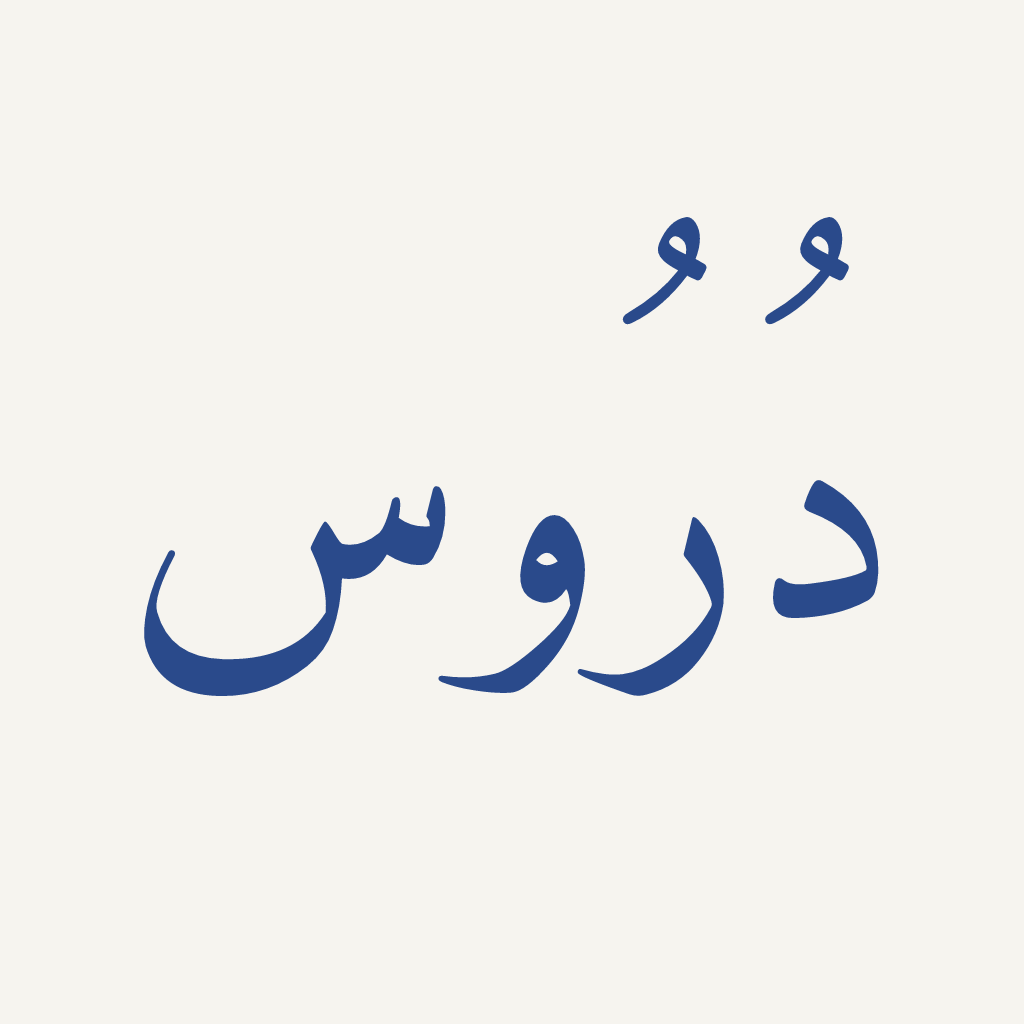
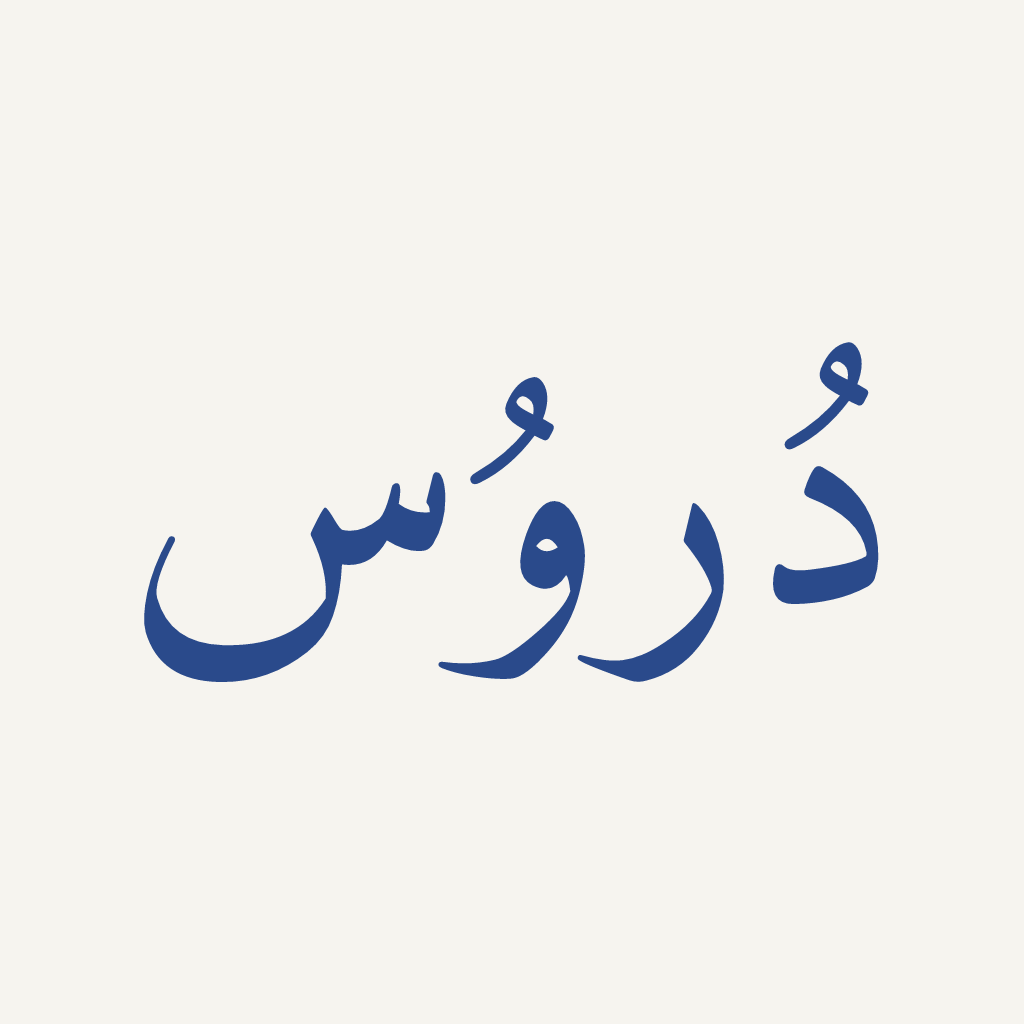
Place the harakat by hand in the generated marks
resvg does not apply Amiri's mark positioning, so the vowelled string
"دُرُوس" came out with both dammas floating above and right of the letters
they belong to, which also dragged the word off its optical centre. Every
icon this repo and the web repo have generated carried that.

The word is now set unvowelled and the two dammas are drawn as separate
glyphs at offsets measured off a render where each letter was given its
own colour. The whole composition is centred on its own ink rather than
on the word, so it no longer sits top heavy in the square.

The same construction, from the same numbers, is now in the web repo's
scripts/make-pwa-assets.ts: the two marks share a home screen and have to
agree.

diff --git a/scripts/make-brand-assets.ts b/scripts/make-brand-assets.ts
@@ -14,6 +14,12 @@
   produces a near-white square.
 
   Run with: npm run brand:build
+
+  The same mark is generated in the web repo by scripts/make-pwa-assets.ts, and
+  the two must agree: a user with both installed sees them side by side on one
+  home screen. They share the font file byte for byte and the same resvg
+  version, so identical parameters produce identical art. Change the geometry
+  here and change it there.
 */
 
 import { Resvg } from "@resvg/resvg-js";
@@ -31,30 +37,77 @@ const LAPIS_LIGHT = "#2A4A8B";
 const LAPIS_DARK = "#7FA0DC";
 
 /*
-  The word, fully vowelled, exactly as scripts/make-pwa-assets.ts sets it in the
-  web repo.
+  The two dammas are drawn as separate glyphs at measured offsets, instead of
+  being typed into the word.
 
-  Kept identical on purpose: this is the same mark on the same home screen, and
-  a user with both installed sees them side by side. The two generators share
-  the font file byte for byte and the same resvg version, so the same parameters
-  produce the same art.
+  resvg does not apply Amiri's mark positioning: handed the vowelled string
+  "دُرُوس" it lays the harakat out on their own advances, so both float above and
+  to the right of the letters they belong to and drag the word off its optical
+  centre. The web app has shipped that artifact since its icons were first
+  generated. It is a limitation of this PNG pipeline only - the app's own
+  Arabic is drawn by CoreText and positions marks correctly - but the icon is a
+  PNG, so the icon has to work around it.
 
-  KNOWN ISSUE, shared with the web app: resvg does not apply Amiri's mark
-  positioning here, so the two dammas float above and right of the word rather
-  than sitting on their letters. It is a rendering artifact in the PNG pipeline
-  only - the app's own Arabic, drawn by CoreText, positions them correctly. It
-  is reproduced rather than worked around because the icons must match; fixing
-  it means shaping the text to paths in both generators at once.
+  Every offset below is a fraction of the font size, so the whole construction
+  scales. They were measured, not guessed: the word was rendered once with each
+  letter in its own colour, the letters located by their pixels, and the marks
+  placed a hair above the tops of the dal and the waw. scripts/measure-mark.mjs
+  is not kept - the numbers are the output, and this comment is the record of
+  where they came from.
+
+  Derived at font size 300 with the baseline at y=560 and the word centred at
+  x=600:
+
+    dal   ink x 825..915  top 443      damma placed to sit just above it
+    waw   ink x 537..662  top 473
+    damma ink is 0.24 wide and 0.31 tall, and floats 0.84 above its own
+          baseline, which is why the mark's baseline goes BELOW the word's
+
+  The composed ink runs from 0.747 above the baseline to 0.227 below it, which
+  is what CENTRE_ABOVE_BASELINE records so the whole thing can be centred as one
+  piece rather than centred on the word and left top heavy.
 */
-const WORD = "دُرُوس";
+const WORD = "دروس";
+const DAMMA = "&#x064F;";
+
+/* Mark offsets from the word's centre and baseline, in multiples of font size. */
+const DAL_DAMMA = { dx: 0.6533, dy: 0.4 };
+const WAW_DAMMA = { dx: -0.25, dy: 0.5 };
+
+/* Ink extents of the composed mark, in multiples of font size. */
+const INK_ABOVE_BASELINE = 0.7467;
+const INK_BELOW_BASELINE = 0.2267;
+const INK_WIDTH = 2.107;
+/* Where the visual centre sits relative to the baseline. Negative is above. */
+const CENTRE_ABOVE_BASELINE = (INK_ABOVE_BASELINE - INK_BELOW_BASELINE) / 2;
+
+/*
+  The word and its two marks, centred horizontally on cx and sitting on the
+  given baseline. Everything that draws the mark goes through here so the icon
+  and the splash cannot drift apart.
+*/
+function markSvg(cx: number, baseline: number, fontSize: number, fill: string): string {
+  const damma = (o: { dx: number; dy: number }) =>
+    `<text x="${cx + o.dx * fontSize}" y="${baseline + o.dy * fontSize}" text-anchor="middle"
+        font-family="Amiri" font-size="${fontSize}" fill="${fill}">${DAMMA}</text>`;
+
+  return `<text x="${cx}" y="${baseline}" text-anchor="middle"
+        direction="rtl" font-family="Amiri" font-size="${fontSize}"
+        fill="${fill}">${WORD}</text>
+  ${damma(DAL_DAMMA)}
+  ${damma(WAW_DAMMA)}`;
+}
+
+/* The baseline that puts the composed mark's visual centre on a canvas's. */
+function centredBaseline(height: number, fontSize: number): number {
+  return Math.round(height / 2 + CENTRE_ABOVE_BASELINE * fontSize);
+}
 
 function iconSvg(size: number, ground: string, mark: string): string {
   const fontSize = Math.round(size * 0.34);
   return `<svg xmlns="http://www.w3.org/2000/svg" width="${size}" height="${size}" viewBox="0 0 ${size} ${size}">
   <rect width="${size}" height="${size}" fill="${ground}"/>
-  <text x="50%" y="${Math.round(size * 0.5 + fontSize * 0.3)}" text-anchor="middle"
-        direction="rtl" font-family="Amiri" font-size="${fontSize}"
-        fill="${mark}">${WORD}</text>
+  ${markSvg(size / 2, centredBaseline(size, fontSize), fontSize, mark)}
 </svg>`;
 }
 
@@ -64,36 +117,34 @@ function iconSvg(size: number, ground: string, mark: string): string {
   The web generator draws a full-bleed launch image per device and sets the word
   at 0.16 of the screen's short edge. expo-splash-screen works the other way
   round: it paints a flat background itself and centres ONE transparent mark
-  scaled to `imageWidth` points. So parity is a matter of arithmetic rather than
-  of copying a file.
+  scaled to `imageWidth` points. So parity is arithmetic rather than a copied
+  file.
 
   The word is drawn at WORD_FRACTION of a fixed canvas, and app.json's
   imageWidth is then chosen so that
-      fontSize_on_screen / screen_width  ==  0.16
-  on a 393pt class phone, which is what SPLASH_IMAGE_WIDTH below records. Change
-  one of the two and the mark stops matching the web app.
 
-  A WIDE canvas, not a square: دُرُوس is roughly 2.2x as wide as its point size,
-  so a square canvas sized to look right vertically runs the word off both edges
-  - which is how the first build shipped, showing "روس" with the dal clipped.
-  The extra height is headroom for the harakat, which sit well above the
-  letters here.
+      fontSize_on_screen / screen_width  ==  0.16
+
+  on a 393pt class phone, which is what SPLASH_IMAGE_WIDTH in theme/layout.ts
+  records. Change one of the two and the mark stops matching the web app - and
+  AnimatedSplash, which redraws this same image, has to use the same width or
+  the hand-off flickers.
+
+  A WIDE canvas, not a square: the mark is a little over 2x as wide as its point
+  size, so a square canvas sized to look right vertically runs the word off both
+  edges - which is how the first build shipped, showing "روس" with the dal
+  clipped. The extra height is headroom for the harakat.
 */
 const SPLASH_W = 1000;
 const SPLASH_H = 700;
 
-/* The word spans this much of the canvas width. */
+/* The mark spans this much of the canvas width. */
 const WORD_FRACTION = 0.9;
-/* Roughly the width of دروس in multiples of its point size. */
-const WORD_ASPECT = 2.2;
 
 function splashMarkSvg(mark: string): string {
-  const fontSize = Math.round((SPLASH_W * WORD_FRACTION) / WORD_ASPECT);
-  /* Baseline low enough that the harakat clear the top edge. */
+  const fontSize = Math.round((SPLASH_W * WORD_FRACTION) / INK_WIDTH);
   return `<svg xmlns="http://www.w3.org/2000/svg" width="${SPLASH_W}" height="${SPLASH_H}" viewBox="0 0 ${SPLASH_W} ${SPLASH_H}">
-  <text x="50%" y="${Math.round(SPLASH_H * 0.72)}" text-anchor="middle"
-        direction="rtl" font-family="Amiri" font-size="${fontSize}"
-        fill="${mark}">${WORD}</text>
+  ${markSvg(SPLASH_W / 2, centredBaseline(SPLASH_H, fontSize), fontSize, mark)}
 </svg>`;
 }
 
@@ -118,6 +169,5 @@ write("icon.png", render(iconSvg(1024, PAPER_LIGHT, LAPIS_LIGHT), 1024));
 write("icon-dark.png", render(iconSvg(1024, PAPER_DARK, LAPIS_DARK), 1024));
 write("icon-tinted.png", render(iconSvg(1024, "#000000", "#FFFFFF"), 1024));
 
-/* app.json sets imageWidth 200; render at 3.6x so it stays crisp. */
 write("splash.png", render(splashMarkSvg(LAPIS_LIGHT), SPLASH_W));
 write("splash-dark.png", render(splashMarkSvg(LAPIS_DARK), SPLASH_W));
